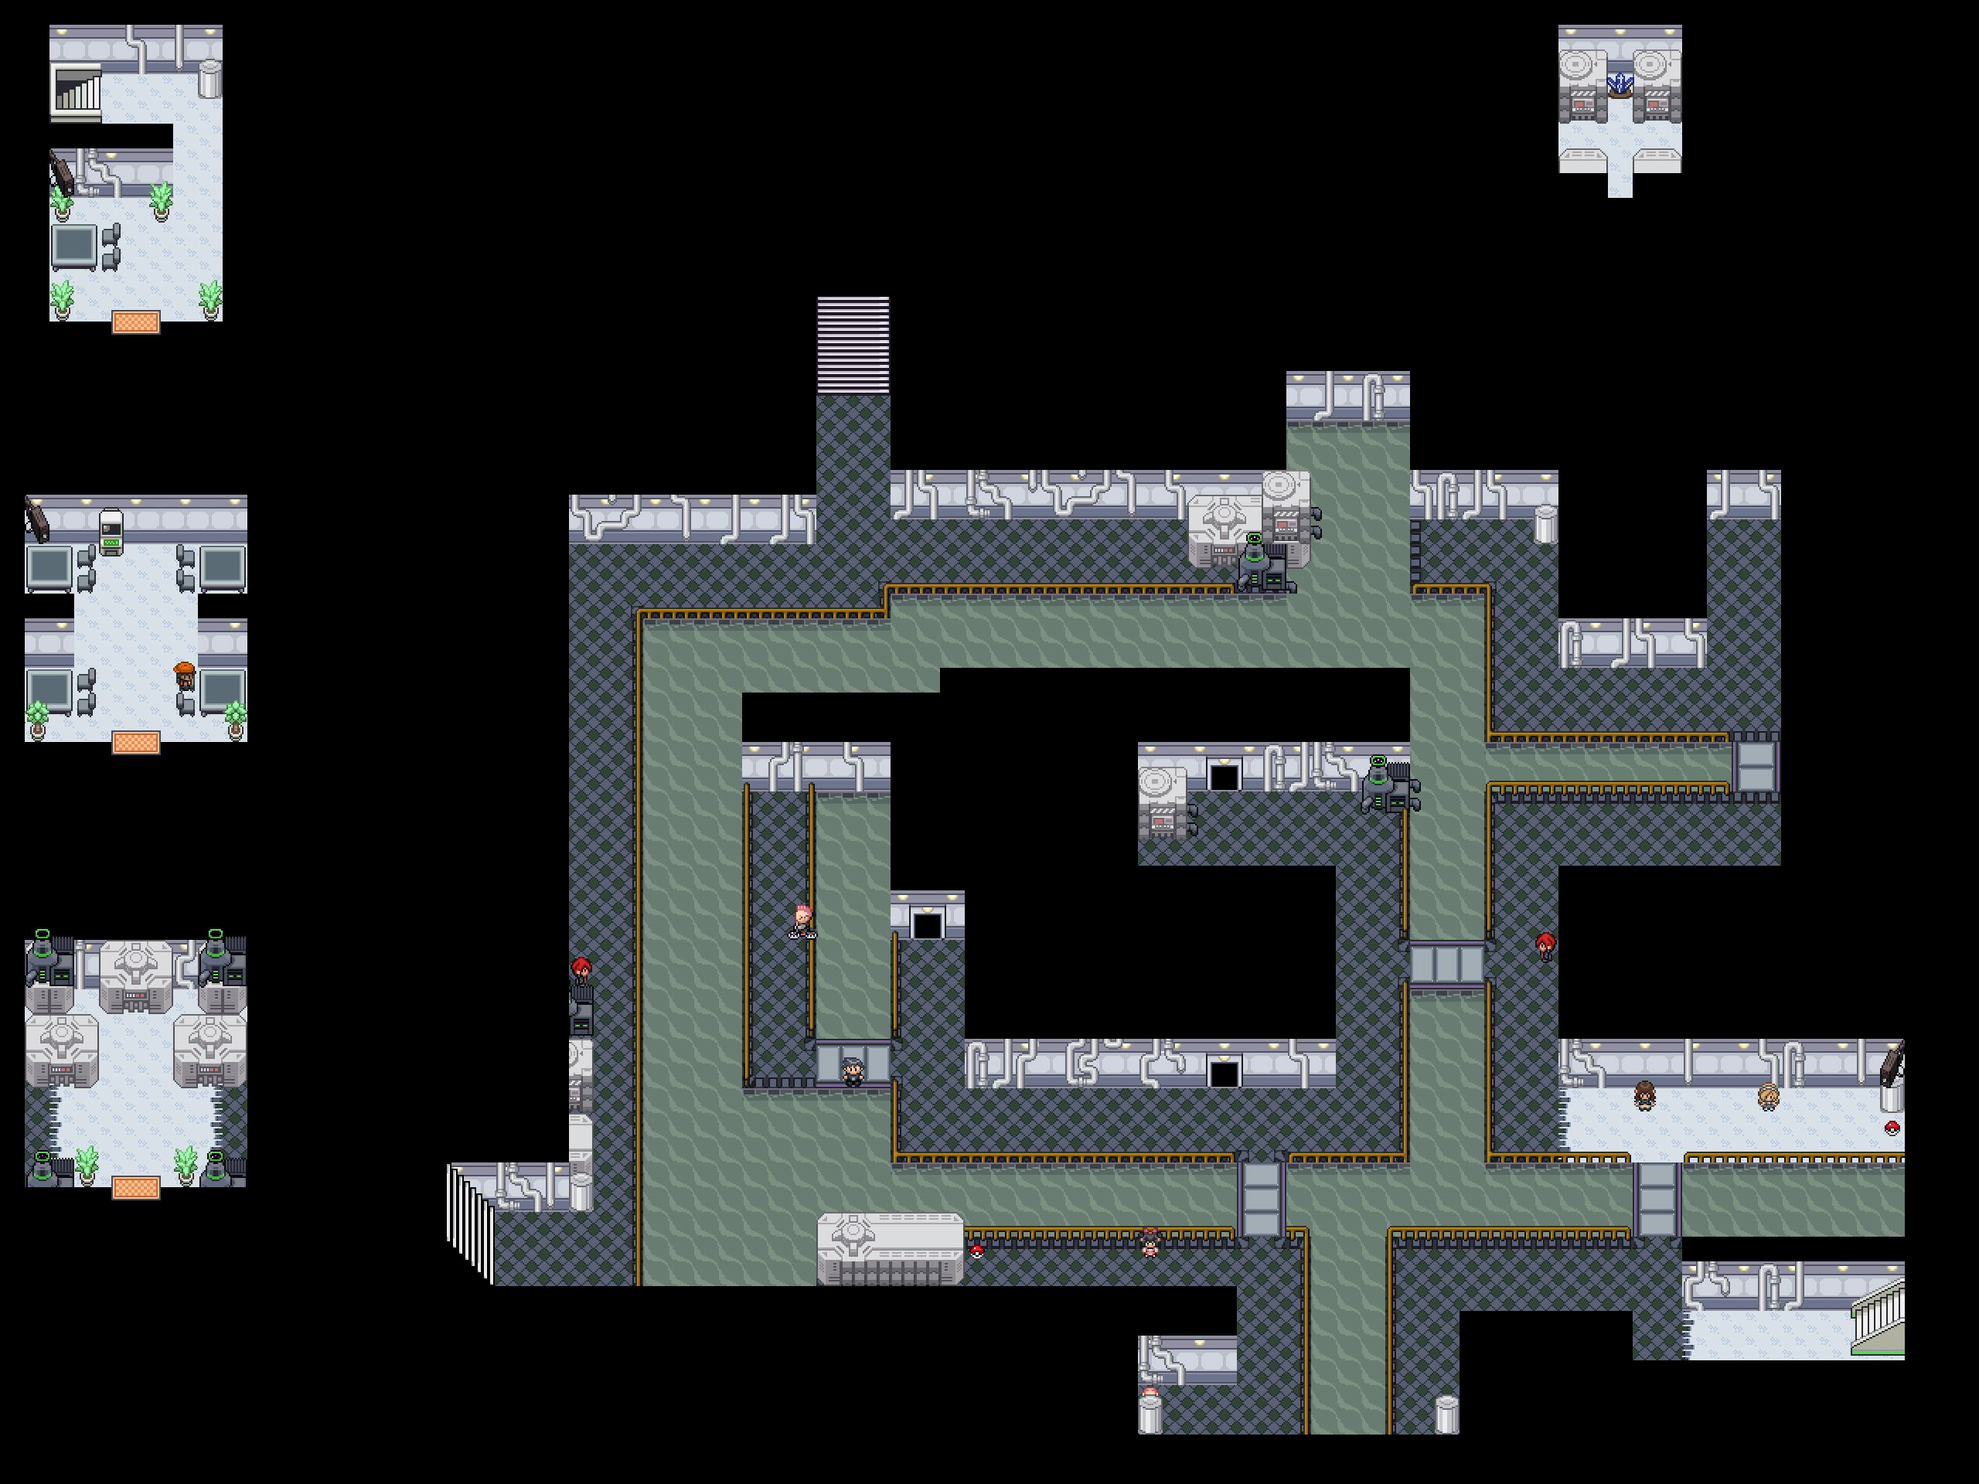
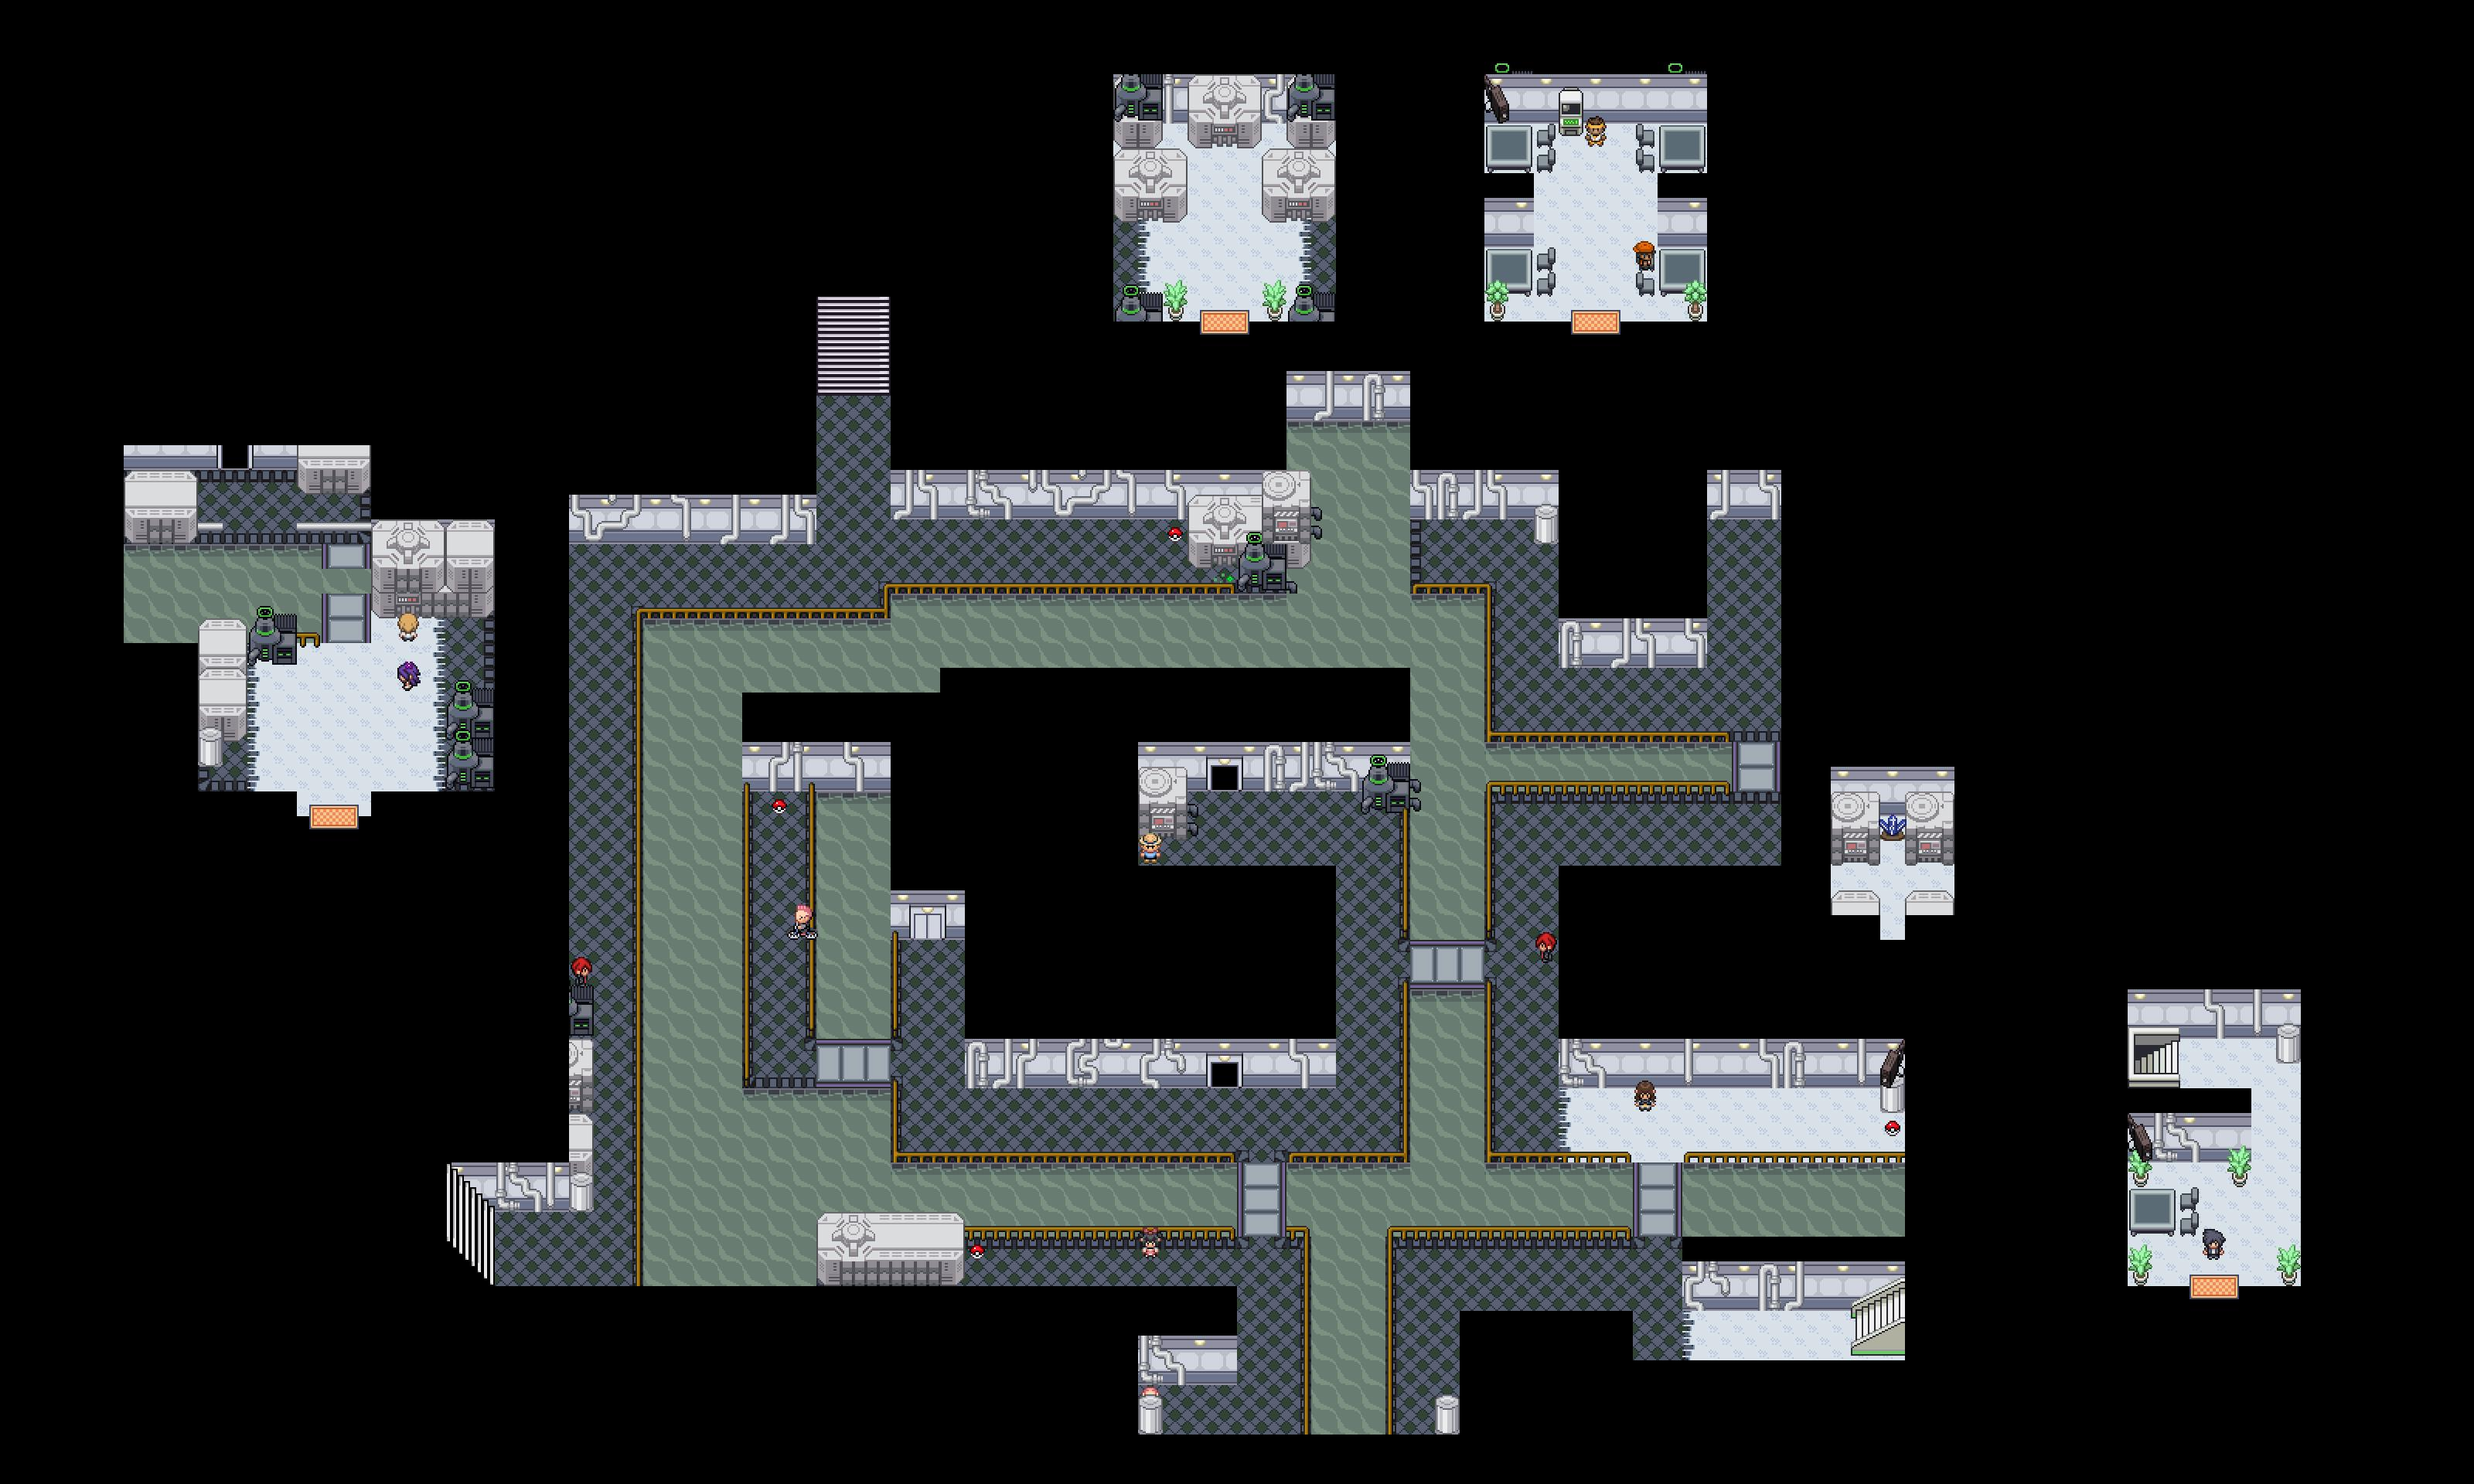
AllCurMapsUpdated

diff --git a/RejuvenationWalkthrough/Scripts/mapList.js b/RejuvenationWalkthrough/Scripts/mapList.js
@@ -17,18 +17,39 @@ var mapList=[
             [['Optimist Talia', 95, 285], ['Charmer Derek', 155, 545], ['Youngster Kaleb', 305, 235], ['Enthusiast Lacey', 245, 695], ['Yukata Girl Shakotal', 315, 685], ['Mistress Nadine', 445, 365], ['Schoolgirl Zara', 505, 425], ['Team Xen Laurel', 455, 205], ['Team Xen Orran', 585, 475], ['Team Xen Yanny', 555, 615]], 
             [], 
             [['Yellow Shard', 715, 655], ['Yellow Shard', 655, 375], ['Escape Rope', 625, 355], ['Blue Shard', 615, 405], ['Red Shard', 595, 295], ['Super Potion', 615, 115], ['Grass Gem', 565, 435], ['Grass Gem', 505, 465], ['Super Repel', 505, 365], ['Elemental Seed', 355, 525], ['Resist Wing', 355, 565], ['Oran Berry', 275, 695], ['Gourmet Treat', 165, 275], ['Oran Berry', 165, 585], ['Reverse Candy', 145, 685]]], //End
-        ['EGC-RightSide', ['East Gearen City'], [[770,820], [[0,0], [770,820]]], [['Prima Donna Bianca', 445, 505], ['Cool Guy Sim', 275, 525], ['Hiker Denko', 355, 275], ['Gang Member Rufus', 195, 475], ['Prima Donna Penelope', 295, 215], ['Team Xen Vera', 495, 415], ['Team Xen Teepo', 285, 405]], [], []], //End
+        ['EGC-RightSide', ['East Gearen City'], [[770,820], [[0,0], [770,820]]],
+            [['Prima Donna Bianca', 445, 505], ['Cool Guy Sim', 275, 525], ['Hiker Denko', 355, 275], ['Gang Member Rufus', 195, 475], ['Prima Donna Penelope', 295, 215], ['Team Xen Vera', 495, 415], ['Team Xen Teepo', 285, 405]],
+            [],
+            [['Super Repel', 655, 95], ['Resist Wing', 655, 265], ['Super Potion', 595, 465], ['Paralyze Heal', 635, 555], ['TM83', 635, 615], ['Green Shard', 635, 605], ['Iron', 625, 695], ['Revive', 405, 535], ['Prettty Wing', 295, 195], ['Heart Scale', 205, 225], ['Tiny Mushroom', 175, 355], ['Repel', 305, 395], ['Blue Shard', 255, 625], ['Reverse Candy', 85, 455]]], //End
     ], //E
     [
     
     ], //F
     [
-        ['GearenPark', ['Gearen Park'], [[630, 855], [[206,226], [521,626]]], [], [], []], //End
-        ['GearenSewers', ['Gearen Sewers'], [[600, 800], [[8,395], [308,795]]], [['Enthusiast Luca', 155, 665], ['Technician Jerald', 215, 625], ['Schoolgirl Amanda', 95, 465], ['Youngster Ben', 325, 75], ['Gang Member Bob', 225, 325], ['Technician Arnold', 205, 235]], [[165,495,295,55], [285,495,115,55], [165,745,525,655]], []], //End
-        ['GoldenwoodForest', ['Goldenwood Forest'], [[1050,660], [[0,114], [400,444]]], [['Fisherman Shane', 365, 485], ['Fisherman Orlando', 455, 405]], [], []], //End
-        ['GoldenwoodCave', ['Goldenwood Cave'], [[480,800], [[0,360], [240,760]]], [['Schoolboy Darin & Gang Member Emile', 170, 535], ['Cool Guy Jeff & Youngster Nickolus', 170, 455], ['Optimist Kairi & Tourist Karin', 155, 295]], [[425,365,375,575]], []], //End
-        ['GoldenwoodGrove', ['Goldenwood Forest'], [[440, 710], [[250,50], [150,170]]], [['Pre-Trainer Melia', 252, 252]], [], [['Icy Rock', 426, 558]]], //End
-        ['GoldenwoodForest-Xen', ['Goldenwood Forest'], [[1050,660], [[556,114], [956,444]]], [['Team Xen Nickoli', 755, 275], ['Team Xen Leela', 465, 225], ['Team Xen Shiela', 475, 435], ['Team Xen Daryle', 275, 455], ['Team Xen Henrie', 245, 375]], [], []], //End
+        ['GearenPark', ['Gearen Park'], [[420, 570], [[134,139], [344,424]]],
+            [['Team Xen Wilbur & Team Xen Hayleigh', 335, 430]], [],
+            [['Honey', 305, 125], ['Carbos', 105, 185], ['Leaf Stone', 105, 275], ['Yellow Shard', 105, 425], ['Blue Shard', 255, 435], ['Muscle Wing', 305, 
+            415]]], //End
+        ['GearenSewers', ['Gearen Sewers'], [[600, 1000], [[8,395], [308,795]]],
+            [['Enthusiast Luca', 155, 665], ['Technician Jerald', 215, 625], ['Schoolgirl Amanda', 95, 465], ['Youngster Ben', 495, 665], ['Gang Member Bob', 225, 325], ['Technician Arnold', 205, 235], ['Garbage Crew Garbodor', 375, 165]],
+            [
+                [285,495,475,495], [165,495,195,495], [195,495,195,645], [195,645,475,645], //Rooms
+                [225,375,255,375], [255,375,255,135], [255,135,275,135], //Main Room
+                [165,745,205,745], [205,745,205,765], [205,765,225,765], //Time Crystal Path
+                [75,765,75,895], [75,895,85,895], //Stairs
+            ],
+            [['Poison Gem', 25, 575], ['Great Ball', 145, 765], ['Zinc', 255, 715], ['Potion', 385, 575], ['Pecha Berry', 255, 465], ['Reverse Candy', 25, 465], ['Coin Case', 95, 395], ['Antidote', 275, 315], ['Rare Candy', 385, 475]]], //End
+        ['GoldenwoodForest', ['Goldenwood Forest'], [[1050,660], [[0,114], [400,444]]],
+            [['Fisherman Shane', 365, 485], ['Fisherman Orlando', 455, 405]], [], []], //End
+        ['GoldenwoodCave', ['Goldenwood Cave'], [[480,800], [[1,340], [241,740]]],
+            [['Schoolboy Darin & Gang Member Emile', 170, 535], ['Cool Guy Jeff & Youngster Nickolus', 170, 455], ['Optimist Kairi & Tourist Karin', 155, 295]],
+            [[425,365,465,365], [465,365,465,485], [465,485,335,485], [335,485,335,575], [335,575,365,575]],
+            [['Red Shard', 105, 645], ['Tiny Mushroom', 175, 605], ['Rare Candy', 215, 485], ['Blue Shard', 205, 345], ['Nugget', 195, 195], ['Potion', 275, 275], ['Tiny Mushroom', 265, 505], ['Tiny Mushroom', 225, 655], ['Great Ball', 335, 295]]], //End
+        ['GoldenwoodGrove', ['Goldenwood Forest'], [[440, 710], [[250,50], [150,170]]],
+            [['Pre-Trainer Melia', 252, 252]], [],
+            [['Icy Rock', 426, 558]]], //End
+        ['GoldenwoodForest-Xen', ['Goldenwood Forest'], [[1050,660], [[556,114], [956,444]]],
+            [['Team Xen Nickoli', 755, 275], ['Team Xen Leela', 465, 225], ['Team Xen Shiela', 475, 435], ['Team Xen Daryle', 275, 455], ['Team Xen Henrie', 245, 375], ['Misfortunate Duo Sharon and Ellie', 225, 285], ['Xen Executive Zetta', 265, 285]], [], []], //End
     ], //G
     [
     
@@ -61,8 +82,11 @@ var mapList=[
     
     ], //Q
     [
-        ['Route1', ['Route 1'], [[860, 800], [[0,0], [860,800]]], [], [], []], //End
-        ['Route2', ['Route 2'], [[580,900], [[0,58], [580,858]]], [['Tourist Hinata', 145, 555], ['Fragrant Lady Ruddie', 315, 695], ['Youngster Kaius', 355, 705], ['Fisherman Connald', 245, 715], ['Prima Donna Jiara', 325, 485], ['News Crew Henrietta and Jeff', 315, 750]], [], []], //End
+        ['Route1', ['Route 1'], [[860, 800], [[0,0], [860,800]]], [], [],
+            [['Potion', 150, 210],['Super Repel', 290, 530]]], //End
+        ['Route2', ['Route 2'], [[580,900], [[0,58], [580,858]]],
+            [['Tourist Hinata', 145, 555], ['Fragrant Lady Ruddie', 315, 695], ['Youngster Kaius', 355, 705], ['Fisherman Connald', 245, 715], ['Prima Donna Jiara', 325, 485], ['News Crew Henrietta and Jeff', 315, 750], ['Appentice Nim', 455, 725]], [],
+            [['Carbos', 105, 95], ['Green Shard', 155, 225], ['Red Shard', 235, 325], ['Blue Shard', 115, 495], ['Gourmet Treat', 375, 545], ['Blue Shard', 305, 415], ['TM46', 415, 425], ['Rose Incense', 365, 165], ['Friend Ball', 445, 155], ['Magical Seed', 475, 635]]], //End
     ], //R
     [
     

diff --git a/RejuvenationWalkthrough/Scripts/mapLeaflet.js b/RejuvenationWalkthrough/Scripts/mapLeaflet.js
@@ -118,9 +118,10 @@ function showMapVersion2(selectedValue, changeView){
   
     map.setMaxBounds([[0,0], [mapNumbers[0][0]+50,mapNumbers[0][1]]]);
     bounds = [[0,0], [mapNumbers[0][0],mapNumbers[0][1]]];
+    map.fitBounds([mapNumbers[1][0],mapNumbers[1][1]]);
   
     var image = L.imageOverlay(mapFilePath, bounds).addTo(map);
-    map.fitBounds([mapNumbers[1][0],mapNumbers[1][1]]);
+    
   } else {
     for(i=0; i<allOverlays.length; i++){
       map.removeLayer(allOverlays[i]);
